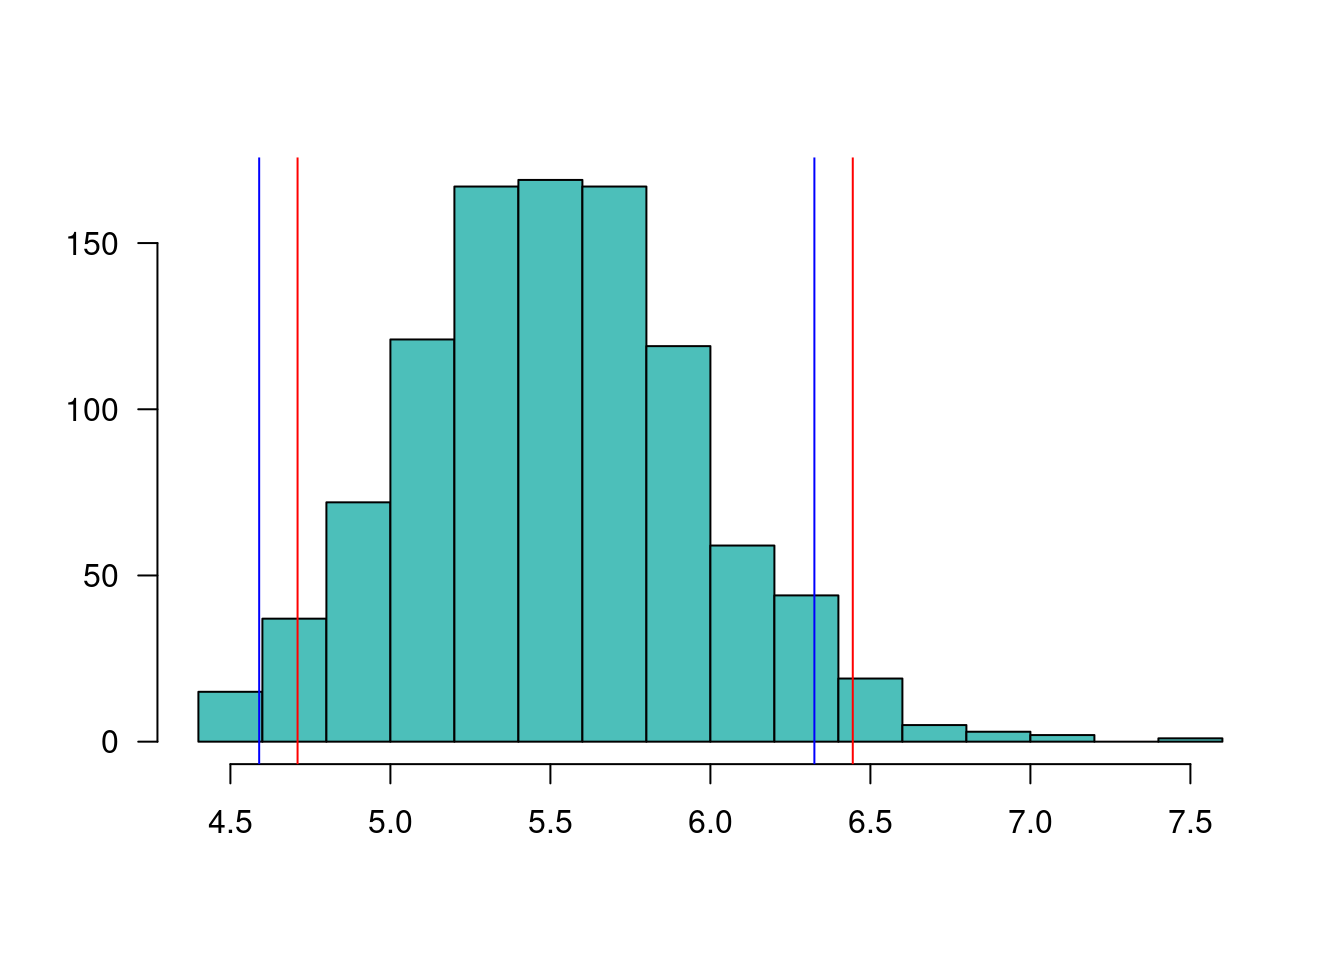
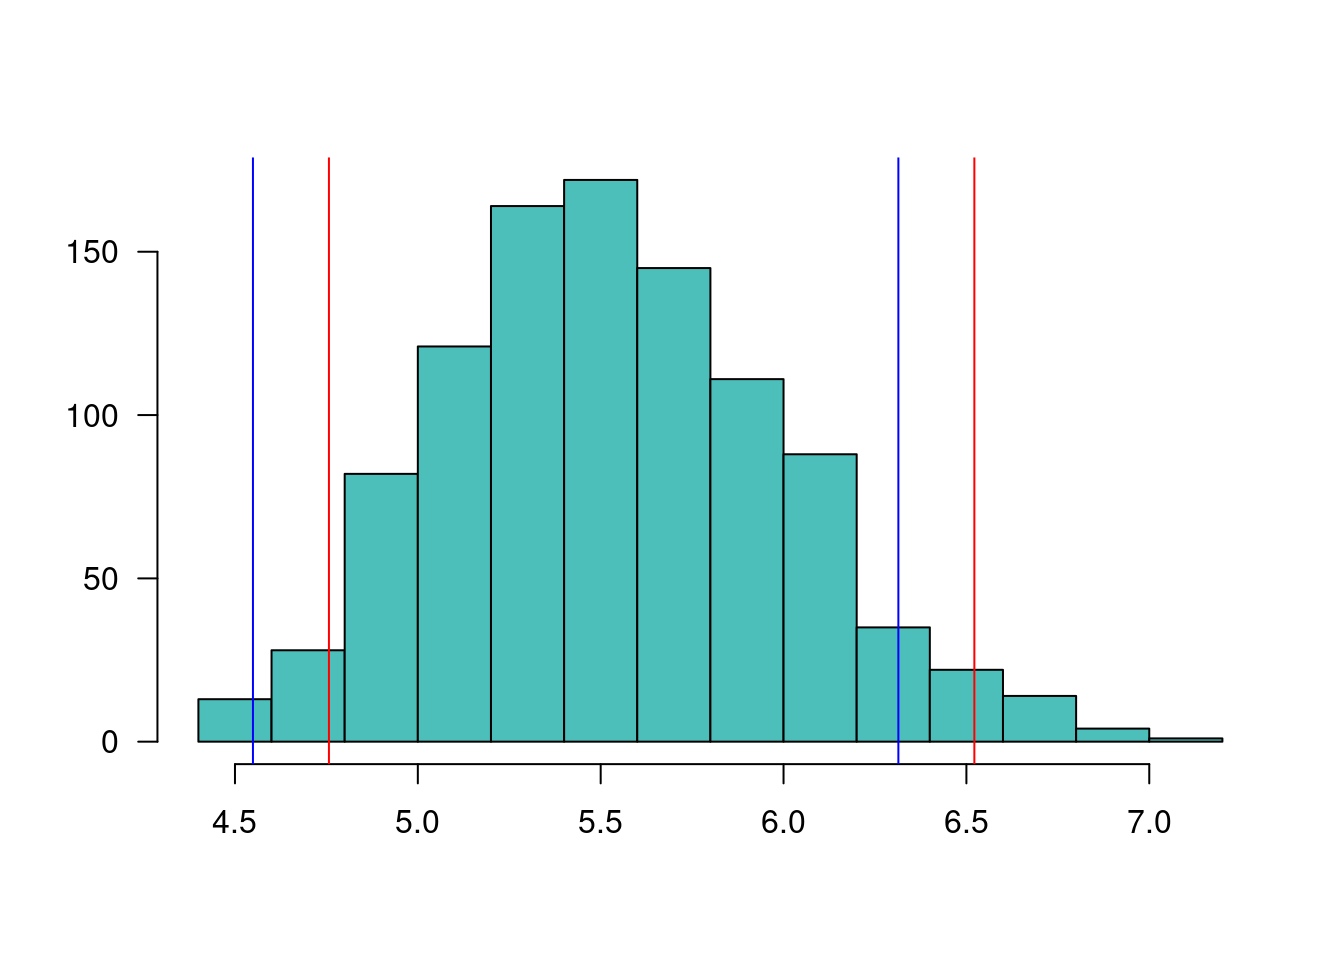
ajustes guia 4.2 y codigo 4.1

diff --git a/Guia402.html b/Guia402.html
@@ -1575,12 +1575,12 @@ mx=apply(b,1,mean)                 # se calculan m medias por fila</code></pre>
 <pre class="r"><code>ic1=quantile(mx, probs=c(0.025, 0.975)) # se calcula IC método 1
 ic1</code></pre>
 <pre><code>    2.5%    97.5% 
-4.709893 6.444929 </code></pre>
+4.756929 6.521750 </code></pre>
 <p><br/><br/></p>
 <pre class="r"><code>ic2=c(2*mean(mx)-ic1[2], 2*mean(mx)-ic1[1]) # se calcula IC método 2
 ic2</code></pre>
 <pre><code>   97.5%     2.5% 
-4.589911 6.324947 </code></pre>
+4.549161 6.313983 </code></pre>
 <p><br/><br/></p>
 <pre class="r"><code>hist(mx, las=1, main=&quot; &quot;, ylab = &quot; &quot;, xlab = &quot; &quot;, col=c3)
 abline(v=ic1, col=&quot;red&quot;)

diff --git a/codigo402.html b/codigo402.html
@@ -650,7 +650,7 @@ ic.var=function(x,a){
 }
 x1=rnorm(100)
 ic.var(x1, 0.05)</code></pre>
-<pre><code>## [1] 0.7299626 1.2778335</code></pre>
+<pre><code>## [1] 0.8320104 1.4564729</code></pre>
 </div>
 <div id="ic-comparación-varianzas" class="section level2">
 <h2><strong>IC comparación varianzas</strong></h2>
